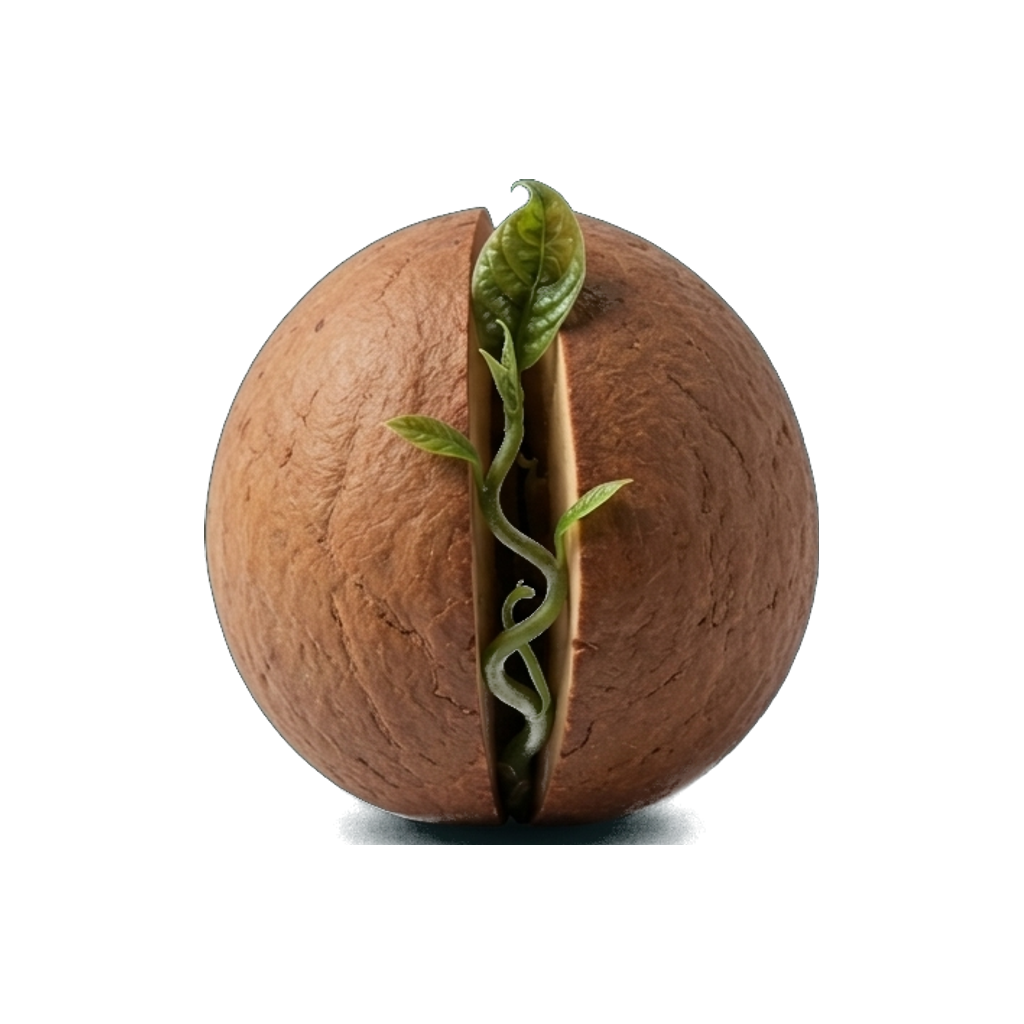
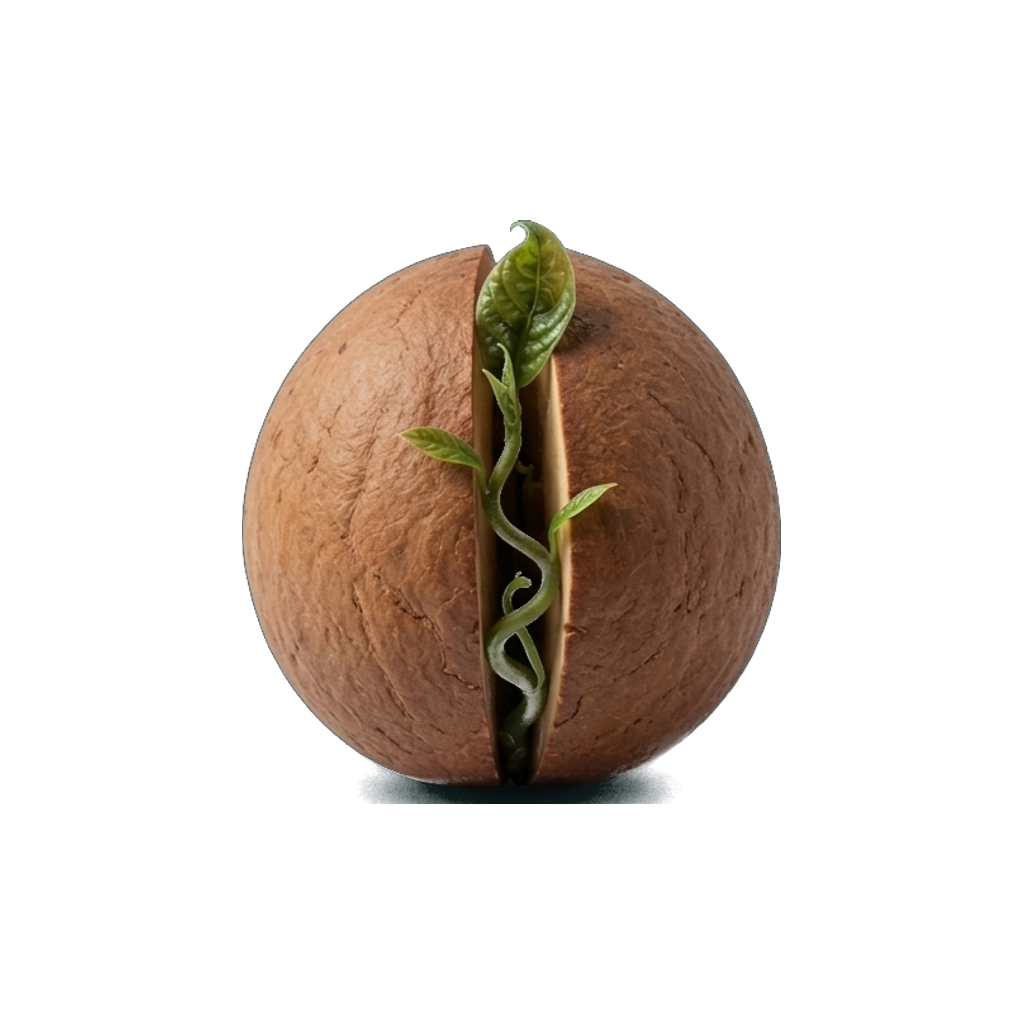
Replace seed artwork with rounder, leafier avocado-pit design
New icon concept sourced via Google image generation from a written
prompt (avocado-pit proportions, larger vivid-green sprout curling
like a vine with small leaves), background-removed and repositioned
through the same padding methodology as the earlier icon work:
content trimmed, scaled to a target canvas-fill percentage, and
recentered with even margins, verified against a circle-mask preview
of the actual Android launcher crop.

Updates all four places the old seed art appeared:
- icon.png (iOS/web/favicon, flat teal background)
- android-icon-foreground.png (Android adaptive icon, transparent)
- android-icon-monochrome.png (Android themed-icon silhouette,
  re-derived from the new cutout's alpha channel)
- assets/branding/seed-transparent.png (the in-app TabHub floating
  button), a separate asset from the launcher icon that needed its
  own tight crop and its own entry in
  constants/tabHubIcons.ts's TAB_HUB_ICON_PIXEL_DIMENSIONS (288x312,
  up from 212x312) so the button renders the new, less elongated
  artwork at its real aspect ratio instead of the old file's.

Two rounds on-device: the first landed the shape/sprout redesign:
confirmed working on the launcher icon but reported "just a little
too big" and missing entirely from the TabHub button (a separate
asset this pass hadn't touched yet). This commit is the corrected
version: launcher icon content fill reduced (~57%/50% down from
~65%/57% for the adaptive foreground/icon.png respectively), and
[…]

Changed region(s): [[0.1875, 0.1562, 0.8125, 0.8438]]

diff --git a/constants/tabHubIcons.ts b/constants/tabHubIcons.ts
@@ -208,7 +208,13 @@ const TAB_HUB_ICON_PIXEL_DIMENSIONS: Partial<Record<TabHubIconChoice, readonly [
   // 'seed' -- the app's own new real default, 2026-08-19. Real, individually
   // measured off the actual final cropped file (see TAB_HUB_ICON_SOURCES's
   // own comment above for the real crop/background-removal process).
-  seed: [212, 312],
+  // Updated 2026-08-20 alongside seed-transparent.png's own replacement
+  // (a rounder, avocado-pit-like seed with a fuller, leafier sprout,
+  // matching the app's own launcher icon update the same day) -- the new
+  // file's real aspect ratio is meaningfully less tall/narrow than the
+  // original (288x312 vs 212x312), so this has to move with it or the
+  // button would render the new art squeezed into the old file's ratio.
+  seed: [288, 312],
   // The 8 garden/pollinator icons, 2026-08-12 -- real, individually
   // measured pairs off the actual final (already-downsized) files, the
   // same jimp-based methodology as every other entry in this table, not
